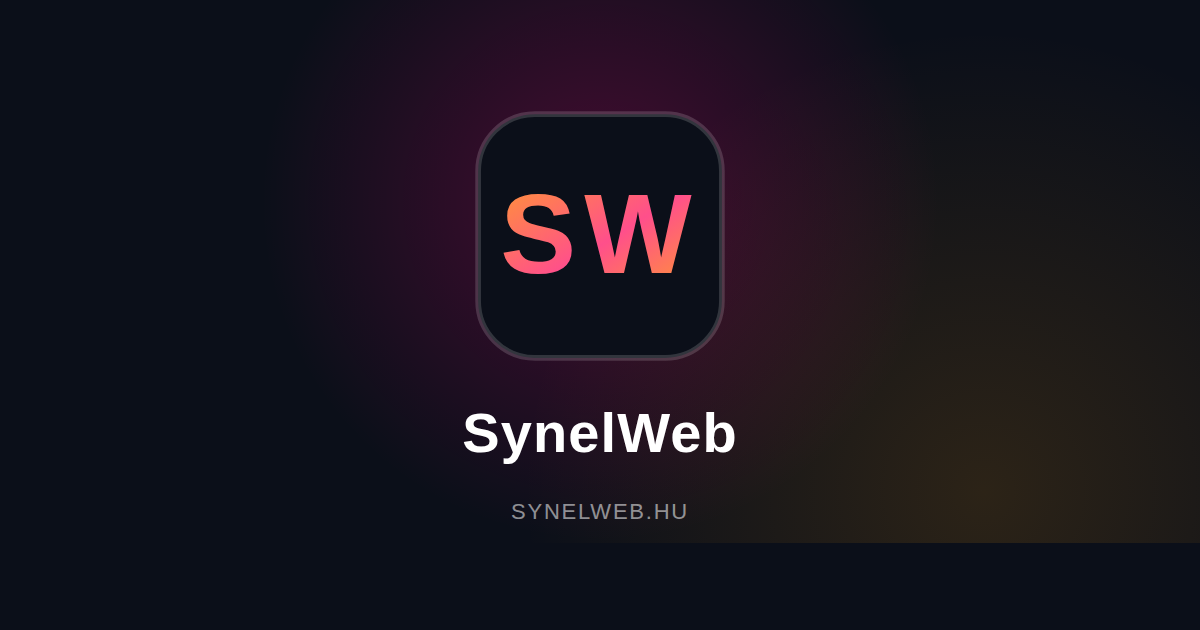
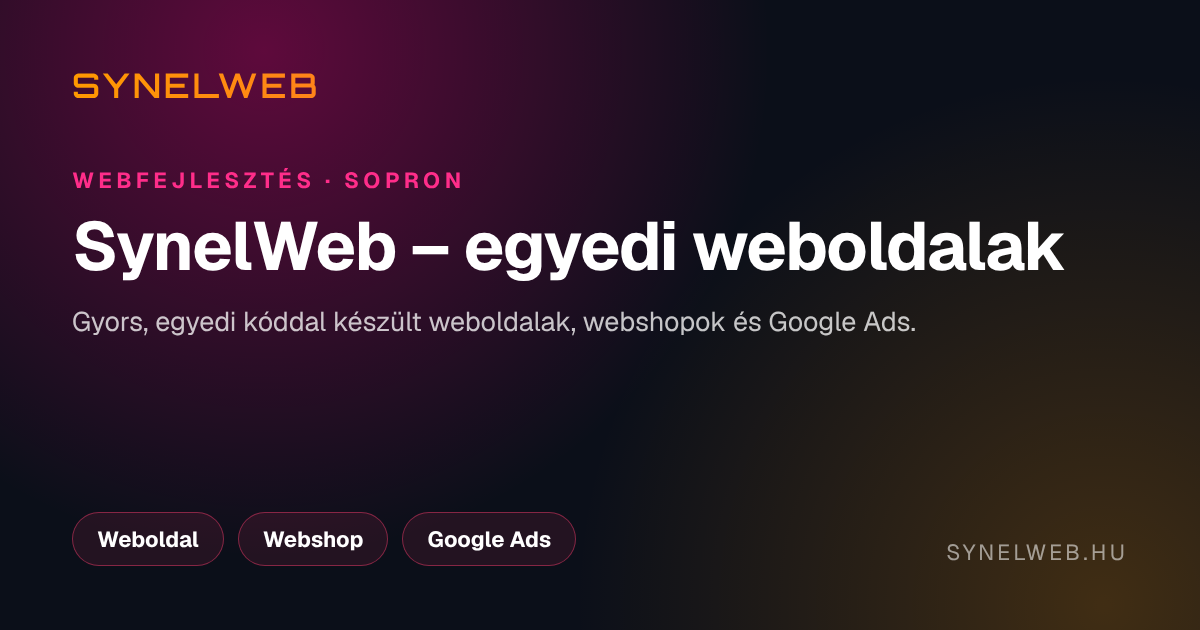
Share images for every page
Every main page gets its own 1200x630 share image in the style of the
site check and Google Ads ones (wordmark, eyebrow, the page's keyword
headline, a short line and a few chips), in hu/en/de: home, about,
services, projects, certificates, blog, technology and contact, plus the
Sopron (hu) and Burgenland & Wien (de) pages. The default image used by
the legal pages is redrawn to match. Blog posts keep their own picture.
A test checks that every image a page points at exists.

Claude-Session: https://claude.ai/code/session_014AVKdrs6HkhbptGnooKDRE

diff --git a/src/seo.test.ts b/src/seo.test.ts
@@ -42,9 +42,9 @@ describe("buildMeta", () => {
     expect(meta.description).toContain("Meet Szilveszter Németh");
   });
 
-  it("defaults the image to the site share image when none is given", () => {
+  it("defaults the image to the page's share image when none is given", () => {
     const meta = buildMeta({ pathname: "/", lang: "hu" });
-    expect(meta.image).toBe("https://synelweb.hu/og-image.png");
+    expect(meta.image).toBe("https://synelweb.hu/og/home-hu.jpg");
   });
 
   it("uses a provided image when non-empty", () => {
@@ -142,8 +142,17 @@ describe("share images", () => {
     );
   });
 
-  it("uses the brand image elsewhere, and a post's own image for a post", () => {
-    expect(buildMeta({ ...base, pathname: "/about", lang: "hu" }).image).toBe(
+  it("gives every main page its own image, and the regional pages theirs", () => {
+    expect(buildMeta({ ...base, pathname: "/", lang: "en" }).image).toBe(
+      "https://synelweb.hu/og/home-en.jpg"
+    );
+    expect(buildMeta({ ...base, pathname: "/sopron", lang: "hu" }).image).toBe(
+      "https://synelweb.hu/og/sopron-hu.jpg"
+    );
+  });
+
+  it("uses the brand image for the legal pages, and a post's own image for a post", () => {
+    expect(buildMeta({ ...base, pathname: "/impresszum", lang: "hu" }).image).toBe(
       "https://synelweb.hu/og-image.png"
     );
     expect(
@@ -168,6 +177,39 @@ describe("meta description length", () => {
         expect(length).toBeGreaterThanOrEqual(120);
         expect(length).toBeLessThanOrEqual(160);
       }
+    }
+  });
+});
+
+describe("share image files", () => {
+  it("exist for every page and language that points at one", async () => {
+    const { existsSync } = await import("node:fs");
+    const { SUPPORTED_LANGS } = await import("./i18n-config");
+    const paths = [
+      "/",
+      "/about",
+      "/services",
+      "/google-ads",
+      "/site-check",
+      "/projects",
+      "/certificates",
+      "/blog",
+      "/technology",
+      "/contact",
+    ];
+    const wanted = [
+      ...paths.flatMap((pathname) =>
+        SUPPORTED_LANGS.map(
+          (lang) => buildMeta({ pathname, lang, title: null, description: null, image: null }).image
+        )
+      ),
+      buildMeta({ pathname: "/sopron", lang: "hu", title: null, description: null, image: null })
+        .image,
+      buildMeta({ pathname: "/austria", lang: "de", title: null, description: null, image: null })
+        .image,
+    ];
+    for (const url of wanted) {
+      expect(existsSync(`public${new URL(url).pathname}`), url).toBe(true);
     }
   });
 });

diff --git a/src/seo.ts b/src/seo.ts
@@ -18,10 +18,22 @@ type SeoEntry = {
 };
 
 // Pages with their own 1200x630 share image, one per language, in
-// public/og/<name>-<lang>.jpg.
+// public/og/<name>-<lang>.jpg (the regional pages exist in their one
+// language only). Blog posts use their own picture; the rest (legal pages)
+// share the brand image, public/og-image.png.
 const OG_IMAGE_PAGES: Partial<Record<string, string>> = {
-  "/site-check": "site-check",
+  "/": "home",
+  "/about": "about",
+  "/services": "services",
   "/google-ads": "google-ads",
+  "/site-check": "site-check",
+  "/projects": "projects",
+  "/certificates": "certificates",
+  "/blog": "blog",
+  "/technology": "technology",
+  "/contact": "contact",
+  "/sopron": "sopron",
+  "/austria": "austria",
 };
 
 type BuildMetaInput = {
